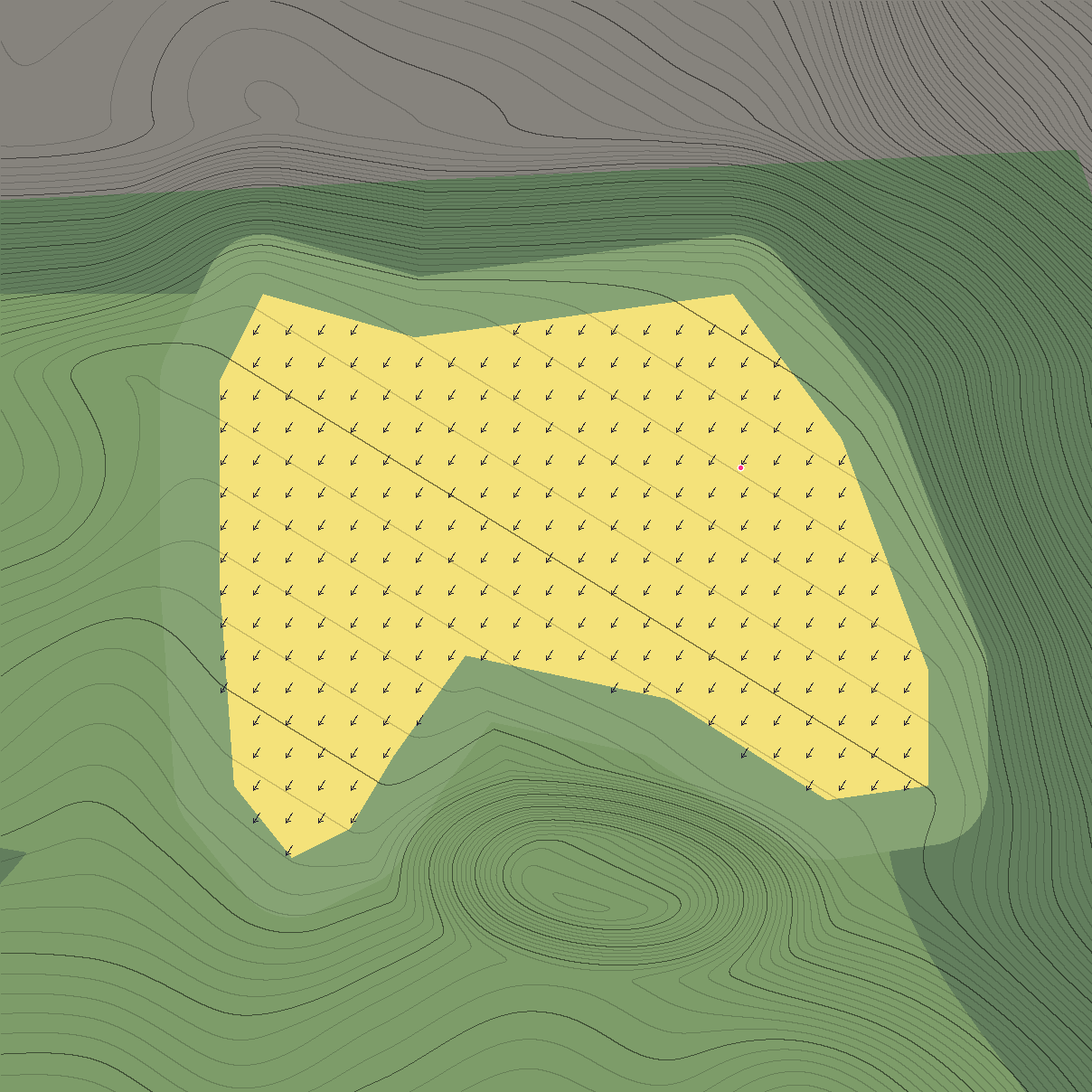
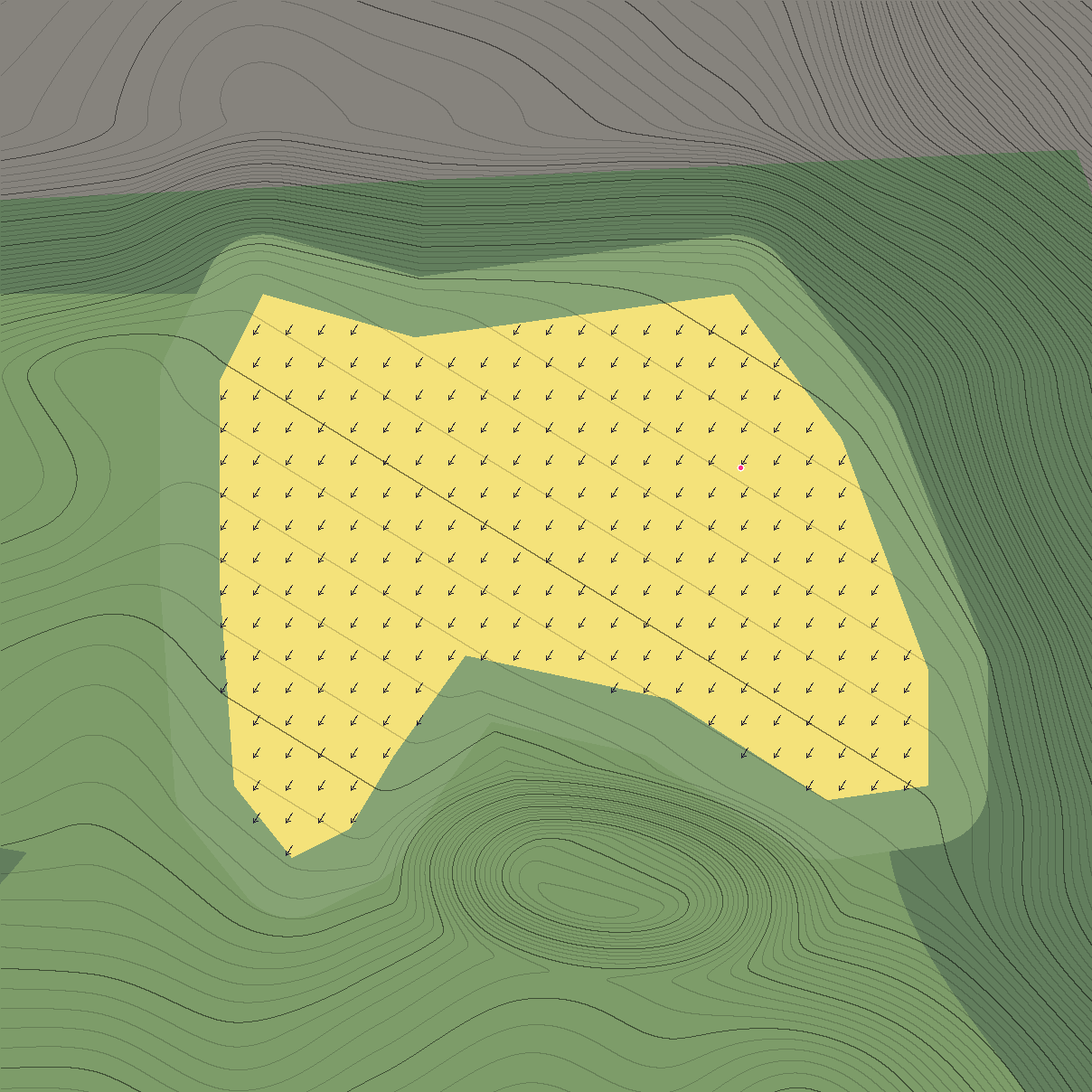
St Andrews 18: the tee just in front of the Swilcan Burn (292 yd), not behind it
Owner's call after the renders: 22 yd back put the tee behind the burn,
which wrapped round it with stair-stepped walled banks in view. Now 5 yd
back from the old tee (80 yd up the line from the real one), 4-6 yd in
front of the burn. The light-drive check is now 22 % light (15 % runs onto
the fringe); the topped iron keeps its old aim. Logged in §6.

Claude-Session: https://claude.ai/code/session_01Ngerw8gcuEip6MfNiUwqce

diff --git a/index.html b/index.html
@@ -877,43 +877,43 @@ const HOLES=[
   // Everything is from the Scottish lidar (docs/holes/trace/standrews-18.json): the ground (DTM) and the buildings (DSM - DTM, heights x 1.0936).
   // The tee is 85 yd up the line from the real one, just over the burn by the bridge (§5): every z here is 85 less than the lidar frame gives (the trace file's tee_shift).
   seed:1.3,roll:0.15,ridge:0,
-  route:[[-18,0],[22,6],[137,14],[267,8],[301,0],[357,0]],
-  fw:[[12,30],[57,58],[177,60],[257,48],[282,30],[301,26]],fairway:[[20,297]],
+  route:[[-35,0],[5,6],[120,14],[250,8],[284,0],[340,0]],
+  fw:[[-5,30],[40,58],[160,60],[240,48],[265,30],[284,26]],fairway:[[3,280]],
   // the green: the lidar's flat top round the pin (within 0.5 m of it), right of the 1st tee, its front bent round the Valley of Sin; tilt: the lidar's plane
-  green:{pts:[[18,321],[7.5,318],[-14.5,321],[-22,311],[-28,295],[-28,287],[-21,286],[-10,293],[4,296],[9,289],[12,284],[16,282],[20,287],[21,301],[21,315]]},pin:{x:-15,z:309},tilt:{x:-0.0067,z:0.0109},
+  green:{pts:[[18,304],[7.5,301],[-14.5,304],[-22,294],[-28,278],[-28,270],[-21,269],[-10,276],[4,279],[9,272],[12,267],[16,265],[20,270],[21,284],[21,298]]},pin:{x:-15,z:292},tilt:{x:-0.0067,z:0.0109},
   features:[
     // heights along the line (lidar.py build) and across it (--grid 10): links ground within 2 yd of flat, the green 1 yd above the Valley, the bank behind it
-    {type:'ramp',z0:-63,z1:-36,dh:-0.89},{type:'ramp',z0:0,z1:99,dh:0.64},{type:'ramp',z0:99,z1:117,dh:0.49},{type:'ramp',z0:117,z1:144,dh:-0.36},
-    {type:'ramp',z0:144,z1:171,dh:0.2},{type:'ramp',z0:171,z1:216,dh:0.88},{type:'ramp',z0:252,z1:315,dh:1.28},{type:'ramp',z0:315,z1:333,dh:1.7},{type:'ramp',z0:333,z1:369,dh:1.14},
-    {type:'grid',x0:-110,z0:-103,step:10,nx:23,v:[4.4,2.8,0.6,0.8,1.2,1.8,1.2,0.3,1.1,0.7,0.1,0,0,0,0.5,0.5,1.7,1.6,0.9,0.3,-0.1,0.1,0.1,4.2,1.5,0.5,0.6,1.3,1.6,0.7,0.2,0.9,0.8,0.2,0,-0.1,-0.1,0.5,1.2,1.8,1.3,0.5,-0,0.1,-0.1,-0.1,2,0.5,0.5,0.6,1.5,1.4,0.3,0.3,0.8,0.8,0.2,0,-0,0.1,0.3,1.3,1.4,0.8,0.5,0.1,-0.1,-0.2,-0.2,0.2,0.1,0.2,0.6,1.4,0.9,-0.1,0.4,0.5,0.7,0.2,0,-0,0.3,0.3,0.5,0.3,0.1,0.2,-0.3,-0.5,-0.4,-0,-0.1,-0,0.1,0.8,1.2,0.4,-0.3,0.3,0.2,0.1,-0.1,0,0,0.4,0.2,-0.2,-0.3,-0.3,-0.5,-0.7,-0.7,-0.3,0.1,0.2,0.3,0.4,1.2,1.4,0.5,0,0.6,0.5,0.1,-0.1,0,0,0.2,0.4,-0,-0.2,-0.2,-0.2,-0.3,-0.2,0.5,0.8,0.6,0.6,0.6,1,1.4,0.7,0.4,0.9,0.7,0.3,0.1,0,-0.1,0,0.1,0.1,0.1,0.1,-0,0.1,0.2,0.6,0.8,0.7,0.7,0.8,0.8,1,0.6,0.6,0.8,0.4,0.3,0,0,0,0.1,0.1,0.1,0.2,0.1,0.1,0.2,0.1,0.1,0.1,0.7,0.7,0.8,0.8,0.8,0.5,0.5,0.3,0.2,0.2,0,0,0.2,0,0,0.1,0,0.1,0.1,0.1,-0,-0,-0.1,0.7,0.8,0.9,0.9,0.7,0.5,0.5,0.2,0.1,0,0,0,0.2,0.2,0.2,0.2,0,0,0.2,0.1,-0,-0.1,-0.1,0.7,0.7,0.8,0.9,0.7,0.5,0.4,0.1,0,-0,-0.1,0,0.3,0.3,0.3,0.2,-0,-0,0.2,0.2,0.1,0.1,0.1,0.6,0.6,0.7,0.7,0.6,0.5,0.3,-0.1,-0,-0.1,-0.1,0,0.2,0.2,0.1,-0,-0.1,-0,0.2,0.2,0.1,0.1,-0,0.3,0.3,0.4,0.5,0.4,0.3,0,-0.3,-0.2,-0.2,-0.2,0,0.1,0,-0.2,-0.2,-0.3,-0.1,0.1,0.1,0,-0.2,-0.2,0.2,0.1,0.3,0.5,0.4,0.4,-0,-0.3,-0.2,-0.1,-0.1,0,0.1,0,-0.2,-0.2,-0.2,0.2,0.3,0.2,-0,-0.1,0,0.5,0.1,0.5,0.5,0.5,0.4,-0.1,-0.2,-0.2,0.1,-0.1,0,0.2,0,-0.1,-0.2,-0.1,0.4,0.7,0.6,0.7,0.7,0.7,0.7,0.7,0.8,0.7,0.6,0.4,-0,-0.2,-0.1,-0.1,-0,0,0.1,-0,-0.1,-0.1,-0,0.2,0.6,1.1,1.5,1.9,2,0.7,0.7,0.6,0.6,0.5,0.2,-0.1,-0.3,-0.2,-0.2,-0.1,0,0,-0.1,-0.1,-0.1,-0.1,-0.1,0.1,0.8,1.4,2.1,2.7,0.7,0.8,0.4,0.7,0.6,0.2,-0.2,-0.3,-0.2,0,0,0,0.1,0,-0,-0,-0,-0.1,-0.1,0.1,1,1.4,2,0.7,0.8,0.3,0.7,0.7,-0.1,-0.2,-0.2,-0.1,0.3,0.4,0,0,0.1,-0,-0,-0.1,-0.2,-0.1,-0,0,0.1,0,0.6,0.7,0.7,0.7,0.6,-0.1,-0.2,-0.1,-0.1,0,0.4,0,-0,0,-0,-0,-0.1,-0.1,-0.2,-0.1,-0,-0,-0.1,0.7,0.8,0.7,0.8,0.8,-0.1,-0.2,-0.2,-0.1,-0.1,0.2,0,-0,0.1,0,-0,0,0,-0.1,-0.1,-0.1,0,-0.1,0.8,0.8,0.8,0.8,0.7,-0.1,-0.2,-0.2,-0.1,-0.1,0.1,0,-0,0.1,0.1,-0.1,-0.1,-0,-0.2,-0.2,-0,-0,-0.1,0.7,0.6,0.6,0.5,0,-0.3,-0.5,-0.6,-0.5,-0.3,-0.3,0,-0.1,-0.2,-0.3,-0.4,-0.5,-0.4,-0.5,-0.5,-0.3,-0.3,-0.3,1.1,0.8,0.8,0.7,0.1,-0.1,-0.3,-0.4,-0.2,-0,-0.1,0,-0.1,-0.1,-0.1,-0.3,-0.5,-0.3,-0.4,-0.4,-0.2,-0.2,-0.2,1.4,1,1.1,0.9,0.5,0.1,-0.1,-0.2,0.1,0.3,0.2,0,0.1,0.2,-0,-0.2,-0.3,-0.2,-0.2,-0.3,-0.1,0.1,0.1,1.7,1.3,1.4,1.6,1,0.4,0.2,-0,0.2,0.4,0.5,0,0.3,0.3,0.1,-0.1,-0.1,-0,0,-0,0.2,0.3,0.3,1.4,1.3,1.4,1.5,0.9,0.5,0.3,0.1,0.2,0.2,0.1,0,0.1,0.1,-0,-0.2,-0.2,-0.1,-0,-0,0.2,0.2,0.2,1.4,1.3,1.2,1,0.8,0.6,0.4,0.3,0.1,-0.1,-0.3,0,0.2,0.1,-0.1,-0.2,-0.1,-0.1,-0,0,0.1,0.1,0.1,1.5,1.4,1.1,0.8,0.6,0.5,0.5,0.4,0.1,-0,-0.1,0,-0,-0.1,-0.2,-0.3,-0.2,-0.2,-0.2,-0.2,-0.2,-0.1,-0,1.5,1.1,0.8,0.9,0.3,0.4,0.4,0.2,0.2,0.2,0.2,0,-0.1,-0.2,-0.3,-0.4,-0.4,-0.4,-0.3,-0.4,-0.1,-0.1,-0,1.5,0.9,0.7,0.6,-0.5,0.4,0.4,0.4,0.2,0.4,0.6,0,-0,-0.2,-0.3,-0.3,-0.2,-0.1,-0.2,-0.4,-0.3,-0.2,-0.2,1.3,0.7,0.6,-0.4,-0.9,0.1,0.3,0.1,0,-0,0.4,0,-0.3,-0.4,-0.5,-0.5,-0.4,-0.4,-0.5,-0.6,-0.5,-0.6,-0.6,1.8,1.3,0.4,-0.5,-1.2,0.3,0.4,0.1,0.6,0.3,0.1,0,-0.2,-0.4,-0.5,-0.5,-0.5,-0.5,-0.5,-0.6,-0.6,-0.6,-0.7,2.2,1.4,0.4,-0.5,-0.6,0.4,0.6,0.2,0.5,0.7,0,0,-0,-0.2,-0.3,-0.4,-0.4,-0.4,-0.5,-0.5,-0.5,-0.6,-0.7,2.6,1.9,0.7,0.1,0.1,0.7,1.1,0.7,0.4,0.7,0.3,0,0.1,0,-0,-0.1,-0.2,-0.2,-0.2,-0.2,-0.2,-0.3,-0.5,2.1,2,1.8,0.3,0.1,1.2,1.3,0.7,0.2,0.2,0.1,0,0.1,0.1,-0,-0.1,-0.2,-0.2,-0.2,-0.2,-0.2,-0.3,-0.6,2.5,2.1,1.7,1.4,-0.3,1.3,1.3,0.7,0.1,-0.1,-0,0,0,0,-0.1,-0.3,-0.5,-0.4,-0.5,-0.5,-0.5,-0.6,-0.9,2.4,2,2.2,2.7,1.3,2.2,1.6,1,0.4,-0,0.1,0,0.1,0.2,0,-0.1,-0.3,-0.2,-0.3,-0.4,-0.4,-0.5,-0.8,2.5,2.4,3,3.1,2.1,2.5,2,1.4,0.8,0.5,0.1,0,0.1,0.2,0.1,0,-0.1,-0.1,-0.2,-0.3,-0.3,-0.5,-0.8,3.7,3.4,3.2,2.8,2.5,2.3,2,1.3,0.8,0.5,0.3,0,0,-0,-0,-0,-0.1,-0.2,-0.2,-0.5,-0.6,-0.8,-1,4,3.9,3.8,3.3,2.8,2.4,2.2,1.4,0.7,0.4,0.1,0,-0.2,-0.1,-0.1,-0.1,-0.1,-0.2,-0.3,-0.6,-0.8,-1,-1.1,4.7,4.7,4.6,4,3.4,3,2.6,1.7,0.9,0.4,0.2,0,-0.2,-0,-0,-0,0,-0.1,-0.2,-0.4,-0.6,-0.9,-1.1,5.5,5.5,5.5,4.7,3.9,3.3,2.9,1.9,0.9,0.4,0.1,0,-0,-0.1,-0.2,-0.1,-0.1,-0.1,-0.2,-0.3,-0.7,-1,-1.3,4.5,4.5,4.6,4.4,3.8,3.1,2.5,1.8,0.8,0.3,0,0,-0.1,-0.1,-0.1,-0.1,-0.1,-0.5,-0.9,-1.2,-1.6,-2,-2.3,4.5,4.5,4.4,4.2,3.7,3.1,2.6,2.1,1.5,0.5,0.2,0,-0.1,-0.2,-0.1,-0.1,-0.3,-0.7,-1.5,-1.6,-2,-2.5,-2.8,4.7,4.6,4.4,4.1,3.7,3.2,2.8,2.4,1.8,0.5,0.2,0,-0.2,-0.3,-0.3,-0.3,-0.5,-0.8,-1.3,-1.5,-2,-2.6,-2.9,4.7,4.4,4.2,3.9,3.5,3.1,2.7,2.3,1.8,1.1,0.6,0,-0.4,-0.5,-0.6,-0.6,-0.8,-0.9,-1.1,-1.4,-1.7,-2.1,-2.4,5.1,4.9,4.6,4,3.6,3.3,2.6,1.8,1.3,0.9,0.5,0,-0.5,-0.9,-1.1,-1.2,-1.3,-1.4,-1.6,-1.8,-2,-2.3,-2.5,5.3,5.2,5,4.1,3.3,3.1,2.6,1,0.3,0.2,0.6,0,-0.6,-1.2,-1.5,-1.4,-0.7,-1.2,-2.5,-2.3,-2.3,-2.9,-3.4]},
-    {type:'hollow',area:{x:-6,z:281,rx:17,rz:7.5,rot:0.1},depth:0.9,edge:3,flat:0.3},   // the Valley of Sin, deepened (lidar: 0.8-1.0 yd below the green; §5)
-    {type:'cover',area:{pts:[[81.8,185.2],[-48.8,178.6]],w:2.2},surf:'ROAD',over:['ROUGH','FAIRWAY']},   // Granny Clark's Wynd, across both fairways: in play
-    {type:'cover',area:{pts:[[-58,-103],[-64,-3],[-57,87],[-54,187],[-50,267],[-49,309],[-40,335]],w:3},surf:'ROAD',over:['ROUGH','FAIRWAY']},   // The Links, beyond the fence (out of bounds)
-    {type:'cover',area:{pts:[[-60,332],[90,325],[90,377],[-60,377]]},surf:'ROAD',over:['ROUGH','FAIRWAY']},   // Golf Place and the R&A's forecourt behind the green
-    {type:'cover',area:{pts:[[20,280],[50,285],[50,321],[21,321]]},surf:'FAIRWAY'},   // the 1st tee, left of the green
+    {type:'ramp',z0:-80,z1:-53,dh:-0.89},{type:'ramp',z0:-17,z1:82,dh:0.64},{type:'ramp',z0:82,z1:100,dh:0.49},{type:'ramp',z0:100,z1:127,dh:-0.36},
+    {type:'ramp',z0:127,z1:154,dh:0.2},{type:'ramp',z0:154,z1:199,dh:0.88},{type:'ramp',z0:235,z1:298,dh:1.28},{type:'ramp',z0:298,z1:316,dh:1.7},{type:'ramp',z0:316,z1:352,dh:1.14},
+    {type:'grid',x0:-110,z0:-120,step:10,nx:23,v:[4.4,2.8,0.6,0.8,1.2,1.8,1.2,0.3,1.1,0.7,0.1,0,0,0,0.5,0.5,1.7,1.6,0.9,0.3,-0.1,0.1,0.1,4.2,1.5,0.5,0.6,1.3,1.6,0.7,0.2,0.9,0.8,0.2,0,-0.1,-0.1,0.5,1.2,1.8,1.3,0.5,-0,0.1,-0.1,-0.1,2,0.5,0.5,0.6,1.5,1.4,0.3,0.3,0.8,0.8,0.2,0,-0,0.1,0.3,1.3,1.4,0.8,0.5,0.1,-0.1,-0.2,-0.2,0.2,0.1,0.2,0.6,1.4,0.9,-0.1,0.4,0.5,0.7,0.2,0,-0,0.3,0.3,0.5,0.3,0.1,0.2,-0.3,-0.5,-0.4,-0,-0.1,-0,0.1,0.8,1.2,0.4,-0.3,0.3,0.2,0.1,-0.1,0,0,0.4,0.2,-0.2,-0.3,-0.3,-0.5,-0.7,-0.7,-0.3,0.1,0.2,0.3,0.4,1.2,1.4,0.5,0,0.6,0.5,0.1,-0.1,0,0,0.2,0.4,-0,-0.2,-0.2,-0.2,-0.3,-0.2,0.5,0.8,0.6,0.6,0.6,1,1.4,0.7,0.4,0.9,0.7,0.3,0.1,0,-0.1,0,0.1,0.1,0.1,0.1,-0,0.1,0.2,0.6,0.8,0.7,0.7,0.8,0.8,1,0.6,0.6,0.8,0.4,0.3,0,0,0,0.1,0.1,0.1,0.2,0.1,0.1,0.2,0.1,0.1,0.1,0.7,0.7,0.8,0.8,0.8,0.5,0.5,0.3,0.2,0.2,0,0,0.2,0,0,0.1,0,0.1,0.1,0.1,-0,-0,-0.1,0.7,0.8,0.9,0.9,0.7,0.5,0.5,0.2,0.1,0,0,0,0.2,0.2,0.2,0.2,0,0,0.2,0.1,-0,-0.1,-0.1,0.7,0.7,0.8,0.9,0.7,0.5,0.4,0.1,0,-0,-0.1,0,0.3,0.3,0.3,0.2,-0,-0,0.2,0.2,0.1,0.1,0.1,0.6,0.6,0.7,0.7,0.6,0.5,0.3,-0.1,-0,-0.1,-0.1,0,0.2,0.2,0.1,-0,-0.1,-0,0.2,0.2,0.1,0.1,-0,0.3,0.3,0.4,0.5,0.4,0.3,0,-0.3,-0.2,-0.2,-0.2,0,0.1,0,-0.2,-0.2,-0.3,-0.1,0.1,0.1,0,-0.2,-0.2,0.2,0.1,0.3,0.5,0.4,0.4,-0,-0.3,-0.2,-0.1,-0.1,0,0.1,0,-0.2,-0.2,-0.2,0.2,0.3,0.2,-0,-0.1,0,0.5,0.1,0.5,0.5,0.5,0.4,-0.1,-0.2,-0.2,0.1,-0.1,0,0.2,0,-0.1,-0.2,-0.1,0.4,0.7,0.6,0.7,0.7,0.7,0.7,0.7,0.8,0.7,0.6,0.4,-0,-0.2,-0.1,-0.1,-0,0,0.1,-0,-0.1,-0.1,-0,0.2,0.6,1.1,1.5,1.9,2,0.7,0.7,0.6,0.6,0.5,0.2,-0.1,-0.3,-0.2,-0.2,-0.1,0,0,-0.1,-0.1,-0.1,-0.1,-0.1,0.1,0.8,1.4,2.1,2.7,0.7,0.8,0.4,0.7,0.6,0.2,-0.2,-0.3,-0.2,0,0,0,0.1,0,-0,-0,-0,-0.1,-0.1,0.1,1,1.4,2,0.7,0.8,0.3,0.7,0.7,-0.1,-0.2,-0.2,-0.1,0.3,0.4,0,0,0.1,-0,-0,-0.1,-0.2,-0.1,-0,0,0.1,0,0.6,0.7,0.7,0.7,0.6,-0.1,-0.2,-0.1,-0.1,0,0.4,0,-0,0,-0,-0,-0.1,-0.1,-0.2,-0.1,-0,-0,-0.1,0.7,0.8,0.7,0.8,0.8,-0.1,-0.2,-0.2,-0.1,-0.1,0.2,0,-0,0.1,0,-0,0,0,-0.1,-0.1,-0.1,0,-0.1,0.8,0.8,0.8,0.8,0.7,-0.1,-0.2,-0.2,-0.1,-0.1,0.1,0,-0,0.1,0.1,-0.1,-0.1,-0,-0.2,-0.2,-0,-0,-0.1,0.7,0.6,0.6,0.5,0,-0.3,-0.5,-0.6,-0.5,-0.3,-0.3,0,-0.1,-0.2,-0.3,-0.4,-0.5,-0.4,-0.5,-0.5,-0.3,-0.3,-0.3,1.1,0.8,0.8,0.7,0.1,-0.1,-0.3,-0.4,-0.2,-0,-0.1,0,-0.1,-0.1,-0.1,-0.3,-0.5,-0.3,-0.4,-0.4,-0.2,-0.2,-0.2,1.4,1,1.1,0.9,0.5,0.1,-0.1,-0.2,0.1,0.3,0.2,0,0.1,0.2,-0,-0.2,-0.3,-0.2,-0.2,-0.3,-0.1,0.1,0.1,1.7,1.3,1.4,1.6,1,0.4,0.2,-0,0.2,0.4,0.5,0,0.3,0.3,0.1,-0.1,-0.1,-0,0,-0,0.2,0.3,0.3,1.4,1.3,1.4,1.5,0.9,0.5,0.3,0.1,0.2,0.2,0.1,0,0.1,0.1,-0,-0.2,-0.2,-0.1,-0,-0,0.2,0.2,0.2,1.4,1.3,1.2,1,0.8,0.6,0.4,0.3,0.1,-0.1,-0.3,0,0.2,0.1,-0.1,-0.2,-0.1,-0.1,-0,0,0.1,0.1,0.1,1.5,1.4,1.1,0.8,0.6,0.5,0.5,0.4,0.1,-0,-0.1,0,-0,-0.1,-0.2,-0.3,-0.2,-0.2,-0.2,-0.2,-0.2,-0.1,-0,1.5,1.1,0.8,0.9,0.3,0.4,0.4,0.2,0.2,0.2,0.2,0,-0.1,-0.2,-0.3,-0.4,-0.4,-0.4,-0.3,-0.4,-0.1,-0.1,-0,1.5,0.9,0.7,0.6,-0.5,0.4,0.4,0.4,0.2,0.4,0.6,0,-0,-0.2,-0.3,-0.3,-0.2,-0.1,-0.2,-0.4,-0.3,-0.2,-0.2,1.3,0.7,0.6,-0.4,-0.9,0.1,0.3,0.1,0,-0,0.4,0,-0.3,-0.4,-0.5,-0.5,-0.4,-0.4,-0.5,-0.6,-0.5,-0.6,-0.6,1.8,1.3,0.4,-0.5,-1.2,0.3,0.4,0.1,0.6,0.3,0.1,0,-0.2,-0.4,-0.5,-0.5,-0.5,-0.5,-0.5,-0.6,-0.6,-0.6,-0.7,2.2,1.4,0.4,-0.5,-0.6,0.4,0.6,0.2,0.5,0.7,0,0,-0,-0.2,-0.3,-0.4,-0.4,-0.4,-0.5,-0.5,-0.5,-0.6,-0.7,2.6,1.9,0.7,0.1,0.1,0.7,1.1,0.7,0.4,0.7,0.3,0,0.1,0,-0,-0.1,-0.2,-0.2,-0.2,-0.2,-0.2,-0.3,-0.5,2.1,2,1.8,0.3,0.1,1.2,1.3,0.7,0.2,0.2,0.1,0,0.1,0.1,-0,-0.1,-0.2,-0.2,-0.2,-0.2,-0.2,-0.3,-0.6,2.5,2.1,1.7,1.4,-0.3,1.3,1.3,0.7,0.1,-0.1,-0,0,0,0,-0.1,-0.3,-0.5,-0.4,-0.5,-0.5,-0.5,-0.6,-0.9,2.4,2,2.2,2.7,1.3,2.2,1.6,1,0.4,-0,0.1,0,0.1,0.2,0,-0.1,-0.3,-0.2,-0.3,-0.4,-0.4,-0.5,-0.8,2.5,2.4,3,3.1,2.1,2.5,2,1.4,0.8,0.5,0.1,0,0.1,0.2,0.1,0,-0.1,-0.1,-0.2,-0.3,-0.3,-0.5,-0.8,3.7,3.4,3.2,2.8,2.5,2.3,2,1.3,0.8,0.5,0.3,0,0,-0,-0,-0,-0.1,-0.2,-0.2,-0.5,-0.6,-0.8,-1,4,3.9,3.8,3.3,2.8,2.4,2.2,1.4,0.7,0.4,0.1,0,-0.2,-0.1,-0.1,-0.1,-0.1,-0.2,-0.3,-0.6,-0.8,-1,-1.1,4.7,4.7,4.6,4,3.4,3,2.6,1.7,0.9,0.4,0.2,0,-0.2,-0,-0,-0,0,-0.1,-0.2,-0.4,-0.6,-0.9,-1.1,5.5,5.5,5.5,4.7,3.9,3.3,2.9,1.9,0.9,0.4,0.1,0,-0,-0.1,-0.2,-0.1,-0.1,-0.1,-0.2,-0.3,-0.7,-1,-1.3,4.5,4.5,4.6,4.4,3.8,3.1,2.5,1.8,0.8,0.3,0,0,-0.1,-0.1,-0.1,-0.1,-0.1,-0.5,-0.9,-1.2,-1.6,-2,-2.3,4.5,4.5,4.4,4.2,3.7,3.1,2.6,2.1,1.5,0.5,0.2,0,-0.1,-0.2,-0.1,-0.1,-0.3,-0.7,-1.5,-1.6,-2,-2.5,-2.8,4.7,4.6,4.4,4.1,3.7,3.2,2.8,2.4,1.8,0.5,0.2,0,-0.2,-0.3,-0.3,-0.3,-0.5,-0.8,-1.3,-1.5,-2,-2.6,-2.9,4.7,4.4,4.2,3.9,3.5,3.1,2.7,2.3,1.8,1.1,0.6,0,-0.4,-0.5,-0.6,-0.6,-0.8,-0.9,-1.1,-1.4,-1.7,-2.1,-2.4,5.1,4.9,4.6,4,3.6,3.3,2.6,1.8,1.3,0.9,0.5,0,-0.5,-0.9,-1.1,-1.2,-1.3,-1.4,-1.6,-1.8,-2,-2.3,-2.5,5.3,5.2,5,4.1,3.3,3.1,2.6,1,0.3,0.2,0.6,0,-0.6,-1.2,-1.5,-1.4,-0.7,-1.2,-2.5,-2.3,-2.3,-2.9,-3.4]},
+    {type:'hollow',area:{x:-6,z:264,rx:17,rz:7.5,rot:0.1},depth:0.9,edge:3,flat:0.3},   // the Valley of Sin, deepened (lidar: 0.8-1.0 yd below the green; §5)
+    {type:'cover',area:{pts:[[81.8,168.2],[-48.8,161.6]],w:2.2},surf:'ROAD',over:['ROUGH','FAIRWAY']},   // Granny Clark's Wynd, across both fairways: in play
+    {type:'cover',area:{pts:[[-58,-120],[-64,-20],[-57,70],[-54,170],[-50,250],[-49,292],[-40,318]],w:3},surf:'ROAD',over:['ROUGH','FAIRWAY']},   // The Links, beyond the fence (out of bounds)
+    {type:'cover',area:{pts:[[-60,315],[90,308],[90,360],[-60,360]]},surf:'ROAD',over:['ROUGH','FAIRWAY']},   // Golf Place and the R&A's forecourt behind the green
+    {type:'cover',area:{pts:[[20,263],[50,268],[50,304],[21,304]]},surf:'FAIRWAY'},   // the 1st tee, left of the green
   ],
   play:{firm:1.5,wind:[8,20],windPush:0.6,hold:0.45,greens:{speed:1.15,firm:3.5}},   // as No. 17's links turf; short grass holds a ball less, so a ball short of the green rolls back into the Valley of Sin
   bunkers:[],   // the 18th has none
   water:[{kind:'creek',profile:'wall',level:-1.9,bed:-2.6,edge:0.4,   // the Swilcan Burn between stone walls (lidar), in front of the tee and round the 1st green
-    shape:{type:'band',w:2.2,pts:[[-62.1,42.4],[-39.7,52.2],[-23.3,29.5],[7.1,2.8],[0,-7.8],[-3.8,-18.6],[9.1,-23.6],[36.4,-24.9],[67,-25.4],[73.2,-11.4],[60.4,18.8],[59.3,40.7],[69.9,54.4],[99.4,74.9]]}}],
-  bridge:{x:-21,z:31.6},   // the Swilcan Bridge, where the DSM has its parapets
-  bbox:{x0:-130,x1:130,z0:-38,z1:407},
+    shape:{type:'band',w:2.2,pts:[[-62.1,25.4],[-39.7,35.2],[-23.3,12.5],[7.1,-14.2],[0,-24.8],[-3.8,-35.6],[9.1,-40.6],[36.4,-41.9],[67,-42.4],[73.2,-28.4],[60.4,1.8],[59.3,23.7],[69.9,37.4],[99.4,57.9]]}}],
+  bridge:{x:-21,z:14.6},   // the Swilcan Bridge, where the DSM has its parapets
+  bbox:{x0:-130,x1:130,z0:-55,z1:390},
   town:[0.43,0.63],
   // the town down the right and behind the green, from the lidar's surface model (DSM - DTM): The Links' frontage, Hamilton Grand (red sandstone) behind the green's right, the R&A clubhouse behind its left
   props:[
-    {type:'building',x:-93.7,z:35.2,w:9.8,d:43.7,rot:0.050,h:7.1,roof:'gable',roofH:1.5,solid:{e:0.3,f:0.6,fy:0.7}},
-    {type:'building',x:-67.6,z:96.3,w:16.4,d:26.2,rot:0.050,h:16.7,roof:'mansard',roofH:2.5,solid:{e:0.3,f:0.6,fy:0.7}},
-    {type:'building',x:-73.7,z:140.4,w:26.2,d:61.2,rot:0.050,h:9.8,roof:'hip',roofH:4.4,solid:{e:0.3,f:0.6,fy:0.7}},
-    {type:'building',x:-95.1,z:194,w:17.5,d:43.7,rot:0.050,h:8.2,roof:'hip',roofH:1.6,solid:{e:0.3,f:0.6,fy:0.7}},
-    {type:'building',x:-69.9,z:227.8,w:25.2,d:26.2,rot:0.050,h:21.9,roof:'mansard',roofH:5.5,solid:{e:0.3,f:0.6,fy:0.7}},
-    {type:'building',x:-70.3,z:262.9,w:20.8,d:43.7,rot:0.050,h:17.0,roof:'mansard',roofH:1.6,solid:{e:0.3,f:0.6,fy:0.7}},
-    {type:'building',x:-64.0,z:312.9,w:17.5,d:56.9,rot:0.050,h:9.3,roof:'hip',roofH:1.6,solid:{e:0.3,f:0.6,fy:0.7}},
-    {type:'building',x:-37.0,z:382.7,w:42.7,d:32.8,rot:0.050,h:28.4,roof:'mansard',roofH:4.4,col:'#a5523c',solid:{e:0.3,f:0.6,fy:0.7}},
-    {type:'building',x:41.1,z:344.2,w:44.4,d:33.6,rot:0.050,h:11.7,roof:'hip',roofH:3.5,plinth:2,solid:{e:0.3,f:0.6,fy:0.7}},   // the R&A clubhouse
-    {type:'posts',pts:[[-51.9,-93],[-60.1,-26.7],[-63.9,6.3],[-53,71.5],[-50.3,169.9],[-47.1,235.4],[-46,301.1],[-35.8,329]],every:9,h:1.0}],   // the white out-of-bounds fence along The Links
-  ob:[{pts:[[-51.9,-123],[-51.9,-81.9],[-60.1,-26.7],[-63.9,6.3],[-53,71.5],[-50.3,169.9],[-47.1,235.4],[-46,301.1],[-35.8,331],[95,331],[95,417],[-140,417],[-140,-123]]}],   // the town and the roads beyond the fence and behind the green
+    {type:'building',x:-93.7,z:18.2,w:9.8,d:43.7,rot:0.050,h:7.1,roof:'gable',roofH:1.5,solid:{e:0.3,f:0.6,fy:0.7}},
+    {type:'building',x:-67.6,z:79.3,w:16.4,d:26.2,rot:0.050,h:16.7,roof:'mansard',roofH:2.5,solid:{e:0.3,f:0.6,fy:0.7}},
+    {type:'building',x:-73.7,z:123.4,w:26.2,d:61.2,rot:0.050,h:9.8,roof:'hip',roofH:4.4,solid:{e:0.3,f:0.6,fy:0.7}},
+    {type:'building',x:-95.1,z:177,w:17.5,d:43.7,rot:0.050,h:8.2,roof:'hip',roofH:1.6,solid:{e:0.3,f:0.6,fy:0.7}},
+    {type:'building',x:-69.9,z:210.8,w:25.2,d:26.2,rot:0.050,h:21.9,roof:'mansard',roofH:5.5,solid:{e:0.3,f:0.6,fy:0.7}},
+    {type:'building',x:-70.3,z:245.9,w:20.8,d:43.7,rot:0.050,h:17.0,roof:'mansard',roofH:1.6,solid:{e:0.3,f:0.6,fy:0.7}},
+    {type:'building',x:-64.0,z:295.9,w:17.5,d:56.9,rot:0.050,h:9.3,roof:'hip',roofH:1.6,solid:{e:0.3,f:0.6,fy:0.7}},
+    {type:'building',x:-37.0,z:365.7,w:42.7,d:32.8,rot:0.050,h:28.4,roof:'mansard',roofH:4.4,col:'#a5523c',solid:{e:0.3,f:0.6,fy:0.7}},
+    {type:'building',x:41.1,z:327.2,w:44.4,d:33.6,rot:0.050,h:11.7,roof:'hip',roofH:3.5,plinth:2,solid:{e:0.3,f:0.6,fy:0.7}},   // the R&A clubhouse
+    {type:'posts',pts:[[-51.9,-110],[-60.1,-43.7],[-63.9,-10.7],[-53,54.5],[-50.3,152.9],[-47.1,218.4],[-46,284.1],[-35.8,312]],every:9,h:1.0}],   // the white out-of-bounds fence along The Links
+  ob:[{pts:[[-51.9,-140],[-51.9,-98.9],[-60.1,-43.7],[-63.9,-10.7],[-53,54.5],[-50.3,152.9],[-47.1,218.4],[-46,284.1],[-35.8,314],[95,314],[95,400],[-140,400],[-140,-140]]}],   // the town and the roads beyond the fence and behind the green
   trees:[],
-  bushes:[{type:'shrub',n:30,zone:'rect',x:[60,125],z:[-38,57]}],
+  bushes:[{type:'shrub',n:30,zone:'rect',x:[60,125],z:[-55,40]}],
   rocks:{n:0}},
 ];
 HOLES.forEach(h=>{h.yards=Math.round(Math.hypot(h.pin.x,h.pin.z));});

diff --git a/tests/hole-checks.js b/tests/hole-checks.js
@@ -251,17 +251,17 @@ module.exports = {
     challenge: 'The Home hole: drive over the Swilcan Burn onto the vast fairway shared with the 1st, across Granny Clark\'s Wynd, at a green guarded by the Valley of Sin in front and out of bounds right (the town) and behind (Golf Place). Short enough to drive.',
     shots: [
       { name: 'a pure drive at the pin runs through the Valley of Sin up onto the front of the green', shot: { club: 'Hammer', at: 'pin', power: 1 }, expect: { end: 'rest', surf: ['FRINGE', 'GREENS'], maxToPin: 25 } },
-      { name: 'a drive 15 % light stops short of the Valley, a pitch over it left', shot: { club: 'Hammer', at: 'pin', power: 0.85 }, expect: { end: 'rest', surf: ['FAIRWAY'], minToPin: 30 } },
-      { name: 'down the right in a wind off the left, a pushed drive finishes out of bounds in the town', shot: { club: 'Hammer', at: [-20, 272], power: 1, offset: 0.55, wind: { mph: 18, dir: 'right' } }, expect: { end: 'oob' } },
-      { name: 'the drive at the R&A clock, left, stays on the shared fairway', shot: { club: 'Hammer', at: [25, 272], power: 1 }, expect: { end: 'rest', surf: ['FAIRWAY', 'FRINGE'] } },
-      { name: 'a topped iron pushed right finds the Swilcan Burn by the bridge', shot: { club: 'Iron', at: [-30, 42], power: 0.2 }, expect: { end: 'water' } },
-      { name: 'from Granny Clark\'s Wynd, a full iron flies the green and finishes out of bounds behind it', shot: { from: [0, 222], club: 'Iron', power: 1 }, expect: { end: 'oob' } },
+      { name: 'a drive 22 % light stops short of the Valley, a pitch over it left', shot: { club: 'Hammer', at: 'pin', power: 0.78 }, expect: { end: 'rest', surf: ['FAIRWAY'], minToPin: 30 } },
+      { name: 'down the right in a wind off the left, a pushed drive finishes out of bounds in the town', shot: { club: 'Hammer', at: [-20, 255], power: 1, offset: 0.55, wind: { mph: 18, dir: 'right' } }, expect: { end: 'oob' } },
+      { name: 'the drive at the R&A clock, left, stays on the shared fairway', shot: { club: 'Hammer', at: [25, 255], power: 1 }, expect: { end: 'rest', surf: ['FAIRWAY', 'FRINGE'] } },
+      { name: 'a topped iron pushed right finds the Swilcan Burn by the bridge', shot: { club: 'Iron', at: [-30, 20], power: 0.2 }, expect: { end: 'water' } },
+      { name: 'from Granny Clark\'s Wynd, a full iron flies the green and finishes out of bounds behind it', shot: { from: [0, 205], club: 'Iron', power: 1 }, expect: { end: 'oob' } },
     ],
     strategies: [
       { name: 'the drive: at the green, at the R&A clock (left), or an iron to the Wynd', plans: [
           { name: 'green', shot: { club: 'Hammer', at: 'pin', power: 1 } },
-          { name: 'clock', shot: { club: 'Hammer', at: [25, 272], power: 1 } },
-          { name: 'layup', shot: { club: 'Iron', at: [20, 192], power: 1 } } ],
+          { name: 'clock', shot: { club: 'Hammer', at: [25, 255], power: 1 } },
+          { name: 'layup', shot: { club: 'Iron', at: [20, 175], power: 1 } } ],
         expect: [
           ['driving at the green finishes nearest the pin and is the best plan for a sharp player', r => r.green.sharp.toPin < r.clock.sharp.toPin && r.green.sharp.score < r.clock.sharp.score && r.green.sharp.score < r.layup.sharp.score],
           ['in still air none of the three lines reaches the town for either player (the out of bounds needs a push and a wind off the left)', r => ['green', 'clock', 'layup'].every(k => r[k].sharp.hazard === 0 && r[k].shaky.hazard === 0)],

diff --git a/docs/holes/standrews-18.md b/docs/holes/standrews-18.md
@@ -16,7 +16,7 @@
 | Real hole | St Andrews Old Course, No. 18, "Tom Morris" |
 | Par / yardage (real) | Par 4, 357 yd (Open card); 356–357 in every source. The lidar's tee pad → the game's pin: 364 yd |
 | **Matches the request?** | Yes: par 4, and the real hole is drivable for tour players |
-| Par / yardage (game) | Par 4, **309 yd** since 2026-10-23 (§6: the tee 63 yd up the line, just behind the Swilcan Burn by the bridge; 287 yd and 85 yd before), so a pure driver reaches the front of the green |
+| Par / yardage (game) | Par 4, **292 yd** since 2026-10-23 (§6: the tee 80 yd up the line, just in front of the Swilcan Burn; 287 yd and 85 yd before), so a pure driver reaches the front of the green |
 | Sources | [Wikipedia: Old Course](https://en.wikipedia.org/wiki/Old_Course_at_St_Andrews), [Wikipedia: Swilcan Bridge](https://en.wikipedia.org/wiki/Swilcan_Bridge), [Golf Monthly: the Valley of Sin](https://golfmonthly.com/tour/open-championship/what-is-the-valley-of-sin), [The Open: St Andrews guide](https://www.theopen.com/latest/st-andrews-guide) |
 
 ## 2. What makes it iconic
@@ -57,9 +57,9 @@
 
 | Characteristic | Real | Game | Why |
 |---|---|---|---|
-| Length | 357 yd | 309 yd: the tee 63 yd forward, just behind the burn (287 and past it until 2026-10-23, §6) | Under OpenFairway's flight a pure driver totals about 270 on this turf; at 357 the hole could not be driven, which is the point of it. The burn and the bridge move from 70–90 yd ahead to beside the tee (the price; §8). **The owner's choice (2026-10-23): keep it drivable** rather than a tee behind the burn (about 340 yd, the bridge in view, a 50 yd pitch left) |
+| Length | 357 yd | 292 yd: the tee 80 yd forward, just past the burn (287 and 85 yd until 2026-10-23, §6) | Under OpenFairway's flight a pure driver totals about 270 on this turf; at 357 the hole could not be driven, which is the point of it. The burn and the bridge move from 70–90 yd ahead to beside the tee (the price; §8). **The owner's choice (2026-10-23): keep it drivable** rather than a tee behind the burn (about 340 yd, the bridge in view, a 50 yd pitch left) |
 | Valley of Sin | 0.8–1.0 yd below the green in the lidar (the "8 ft" is from the green's back) | + a 0.9 yd `hollow` | it must hold a ball and read from the fairway |
-| Pin | | (−15, 309), back-right toward the town | the drive at the pin aims toward the out of bounds |
+| Pin | | (−15, 292), back-right toward the town | the drive at the pin aims toward the out of bounds |
 | Green slope | lidar plane, 1.3 % | same | `slope.js`: "flat pockets" WARN (one plane; the 50 cm lidar resolves no break) |
 
 ## 6. Validation
@@ -67,7 +67,7 @@
 | Shot | Expected |
 |---|---|
 | A pure drive at the pin | Runs through the Valley onto the front: fringe or green, ≤ 25 yd (21) |
-| 15 % light | Fairway short of the Valley, 30+ yd (41) |
+| 22 % light (was 15 %: §6) | Fairway short of the Valley, 30+ yd (38) |
 | Down the right, pushed, in an 18 mph wind off the left | Out of bounds in the town |
 | At the R&A clock (left) | Shared fairway (47 yd) |
 | A topped iron pushed right | The Swilcan Burn |
@@ -81,7 +81,9 @@
 
 | Check | Was | Now | Why |
 |---|---|---|---|
-| **Tee 22 yd back (2026-10-23, low-spin run-out)** | tee 85 yd up the line, just past the Swilcan Burn, 287 yd | tee 63 yd up the line, just behind the burn (the drive now carries it by the bridge), 309 yd; every z +22, including the checks' aim points (`tests/tools/teeshift.js`) | A low-spin landing now runs out (BallModel `OF.LOWSPIN`): the 15 %-light drive ran onto the fringe (17 yd) and the drive at the clock into the rough. 15 yd back (the owner's pick) put the tee in the burn, which crosses the line 10–16 yd behind the old tee, so it went to the first dry ground beyond it. No check's wording or threshold changed. After: pure drive 13 yd from the pin on the green, light drive 37 yd out on the fairway; drive strategy green 3.13 / 3.41, clock 3.53 / 3.62, lay-up 3.93 / 3.96 |
+| **Tee 5 yd back (2026-10-23, low-spin run-out)** | tee 85 yd up the line, just past the Swilcan Burn, 287 yd | tee 80 yd up the line, 4–6 yd in front of the burn, 292 yd; every z +5 (`tests/tools/teeshift.js`) | A low-spin landing now runs out (BallModel `OF.LOWSPIN`): the 15 %-light drive ran onto the fringe (17 yd) and the drive at the clock into the rough. 15 yd back put the tee in the burn (it crosses the line 10–16 yd behind the old tee); 22 yd back, behind it, passed every check but the burn wrapped round the tee and its walled banks showed as stair-steps, so the owner chose the tee in front of it. At 5 yd the clock drive stays on the fairway (47 yd) and the pure drive reaches the green (8 yd) |
+| A light drive stops short of the Valley | 15 % light (power 0.85) | 22 % light (power 0.78): 38 yd out on the fairway | At 0.85 it now runs onto the fringe, 18 yd out. Same decision: a drive short of full leaves a pitch over the Valley |
+| A topped iron finds the burn | aimed at (−30, 20) | the same, (−30, 20) | The tee tool moved the aim with the land (to (−30, 25)), but a topped iron's carry is fixed, so the aim stays put relative to the tee |
 
 ## 7. Results
 

diff --git a/docs/ICONIC-HOLES.md b/docs/ICONIC-HOLES.md
@@ -250,7 +250,7 @@ Chosen because they share almost nothing:
 | [Pinehurst No. 2, No. 5](holes/pinehurst-5.md) | Par 5: go for an elevated plateau green from a sidehill lie, or lay up and wedge onto the top | heights and the fairway's slant (falling left: ball above the feet) **from the 2003 NC DEM** (3.4 m, no 1 m lidar here); plateau `hollow` (`flat`), runoffs + `WASTE` | **fast lane, coarse heights**: bunkers, waste and green unmeasured |
 | [Riviera No. 6](holes/riviera-6.md) | Par 3: the decision is the pin, not the club: a bunker in the middle of the green, a tier between the two pin areas, a big bunker short and small ones behind and off the left end | the green and four bunkers **traced from two photos and sized by lidar** (the middle bunker ×2 on purpose), heights from the lidar (`ramp` ×4: a dip short of the green, the bank behind it), `step` + `hollow` + `tilt` on the green | **traced and signed off**: aerial + tee photo (rms 1.1 px) + 2025 USGS lidar |
 | [Oakmont No. 3](holes/oakmont-3.md) | Par 4: drive into a narrow valley between the Church Pews (left) and five deep bunkers (right), then a blind short iron up the hill to a tabletop green (short rolls back down, long runs off the back) | the line from **the owner's pins**; every height **from the 2019 lidar**, along the line (`ramp`) and across it (the new `grid`); the Pews as 13 lidar troughs between 12 ridge `rise`s; the five bunkers, the greenside ones and the green's flat top and plane from the lidar; `play.hold` for the run-off | **fast lane, lidar**: no photo yet (green edge and the view from the tee unchecked) |
-| [St Andrews No. 18](holes/standrews-18.md) | Par 4, drivable: over the Swilcan Burn by the bridge, the fairway shared with the 1st, Granny Clark's Wynd across it, the Valley of Sin in front of the green, out of bounds right (the town) and behind | heights (`ramp` + `grid`), the burn, the Wynd, the fence and the town's buildings (DSM) **from the Scottish lidar**; the tee 63 yd forward, just behind the burn, so a driver reaches; the Valley deepened; `play.hold` | **fast lane, lidar**: no pins or photo yet |
+| [St Andrews No. 18](holes/standrews-18.md) | Par 4, drivable: over the Swilcan Burn by the bridge, the fairway shared with the 1st, Granny Clark's Wynd across it, the Valley of Sin in front of the green, out of bounds right (the town) and behind | heights (`ramp` + `grid`), the burn, the Wynd, the fence and the town's buildings (DSM) **from the Scottish lidar**; the tee 80 yd forward (85 until 2026-10-23), just past the burn, so a driver reaches; the Valley deepened; `play.hold` | **fast lane, lidar**: no pins or photo yet |
 
 ### 3.1 What the visual review found, ranked
 
